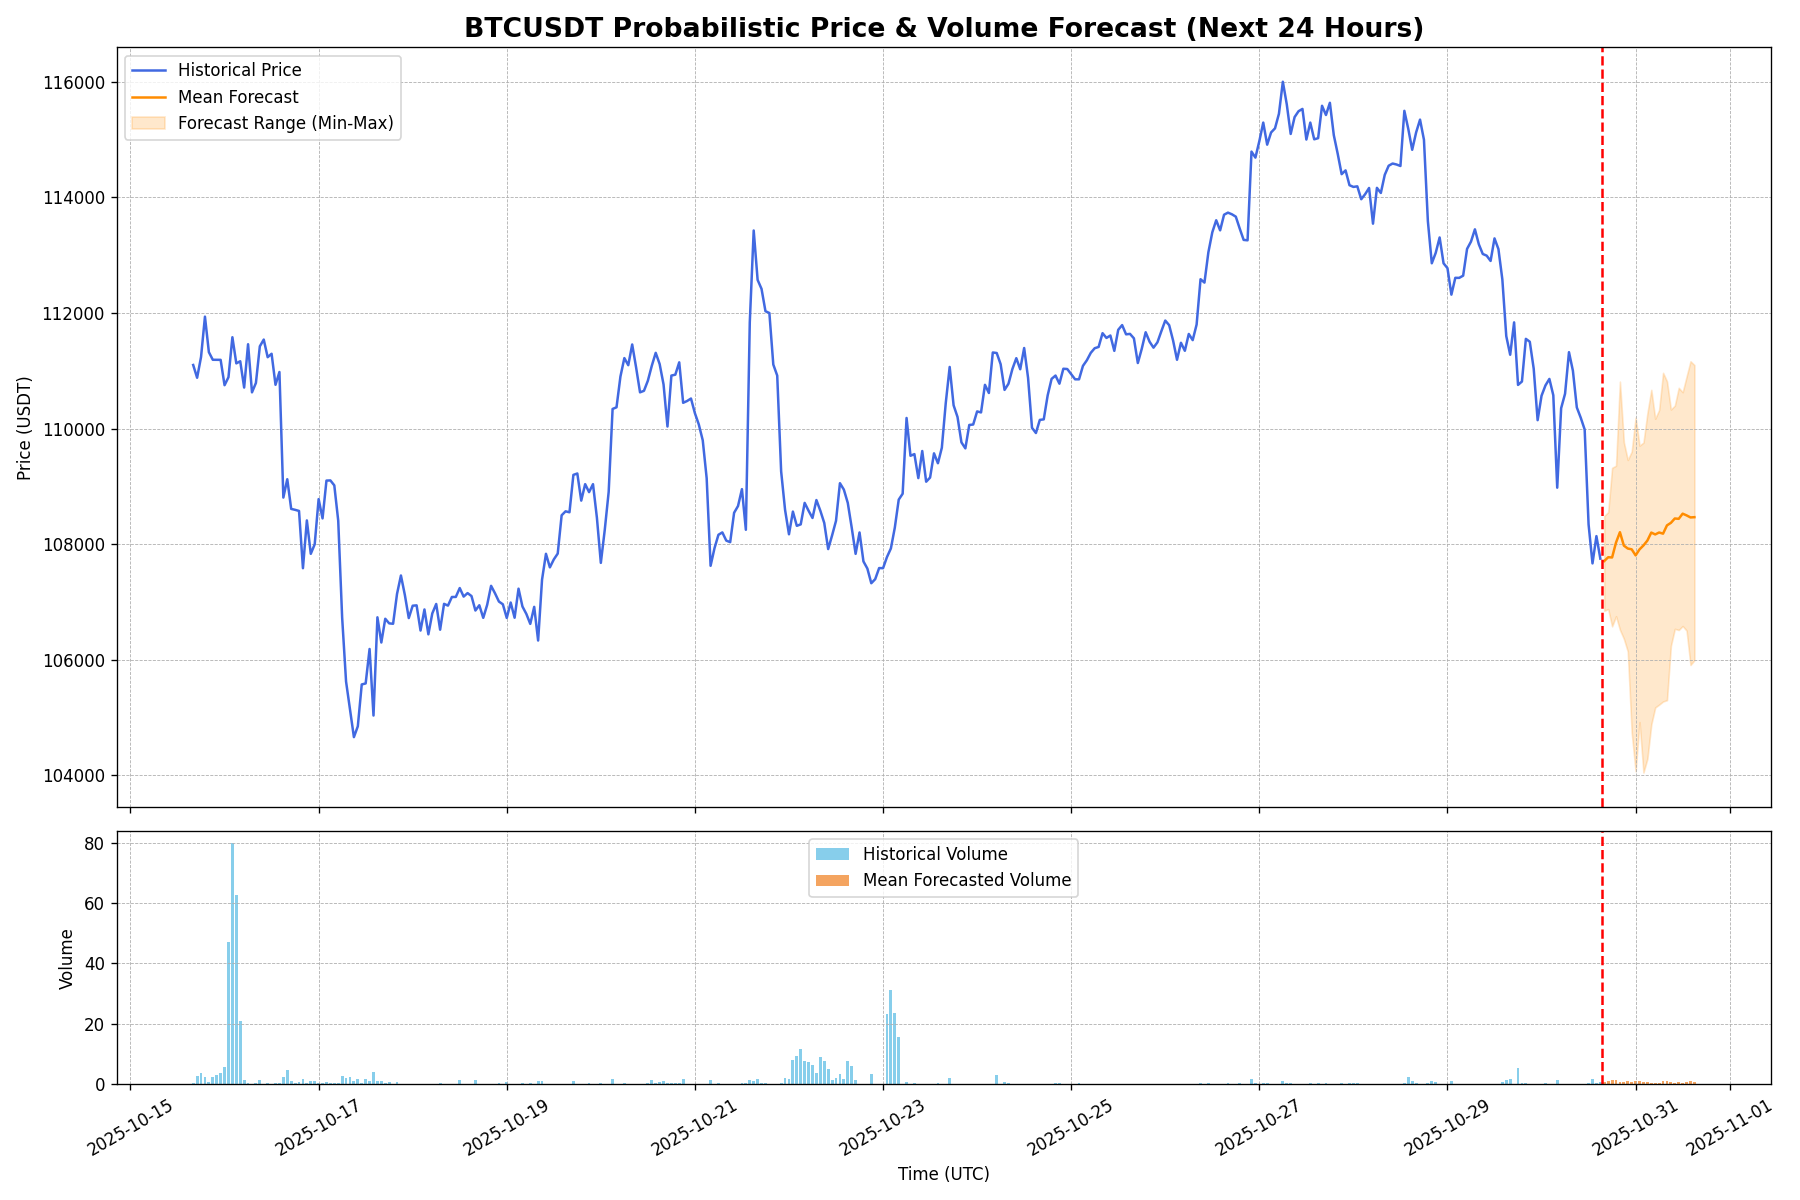
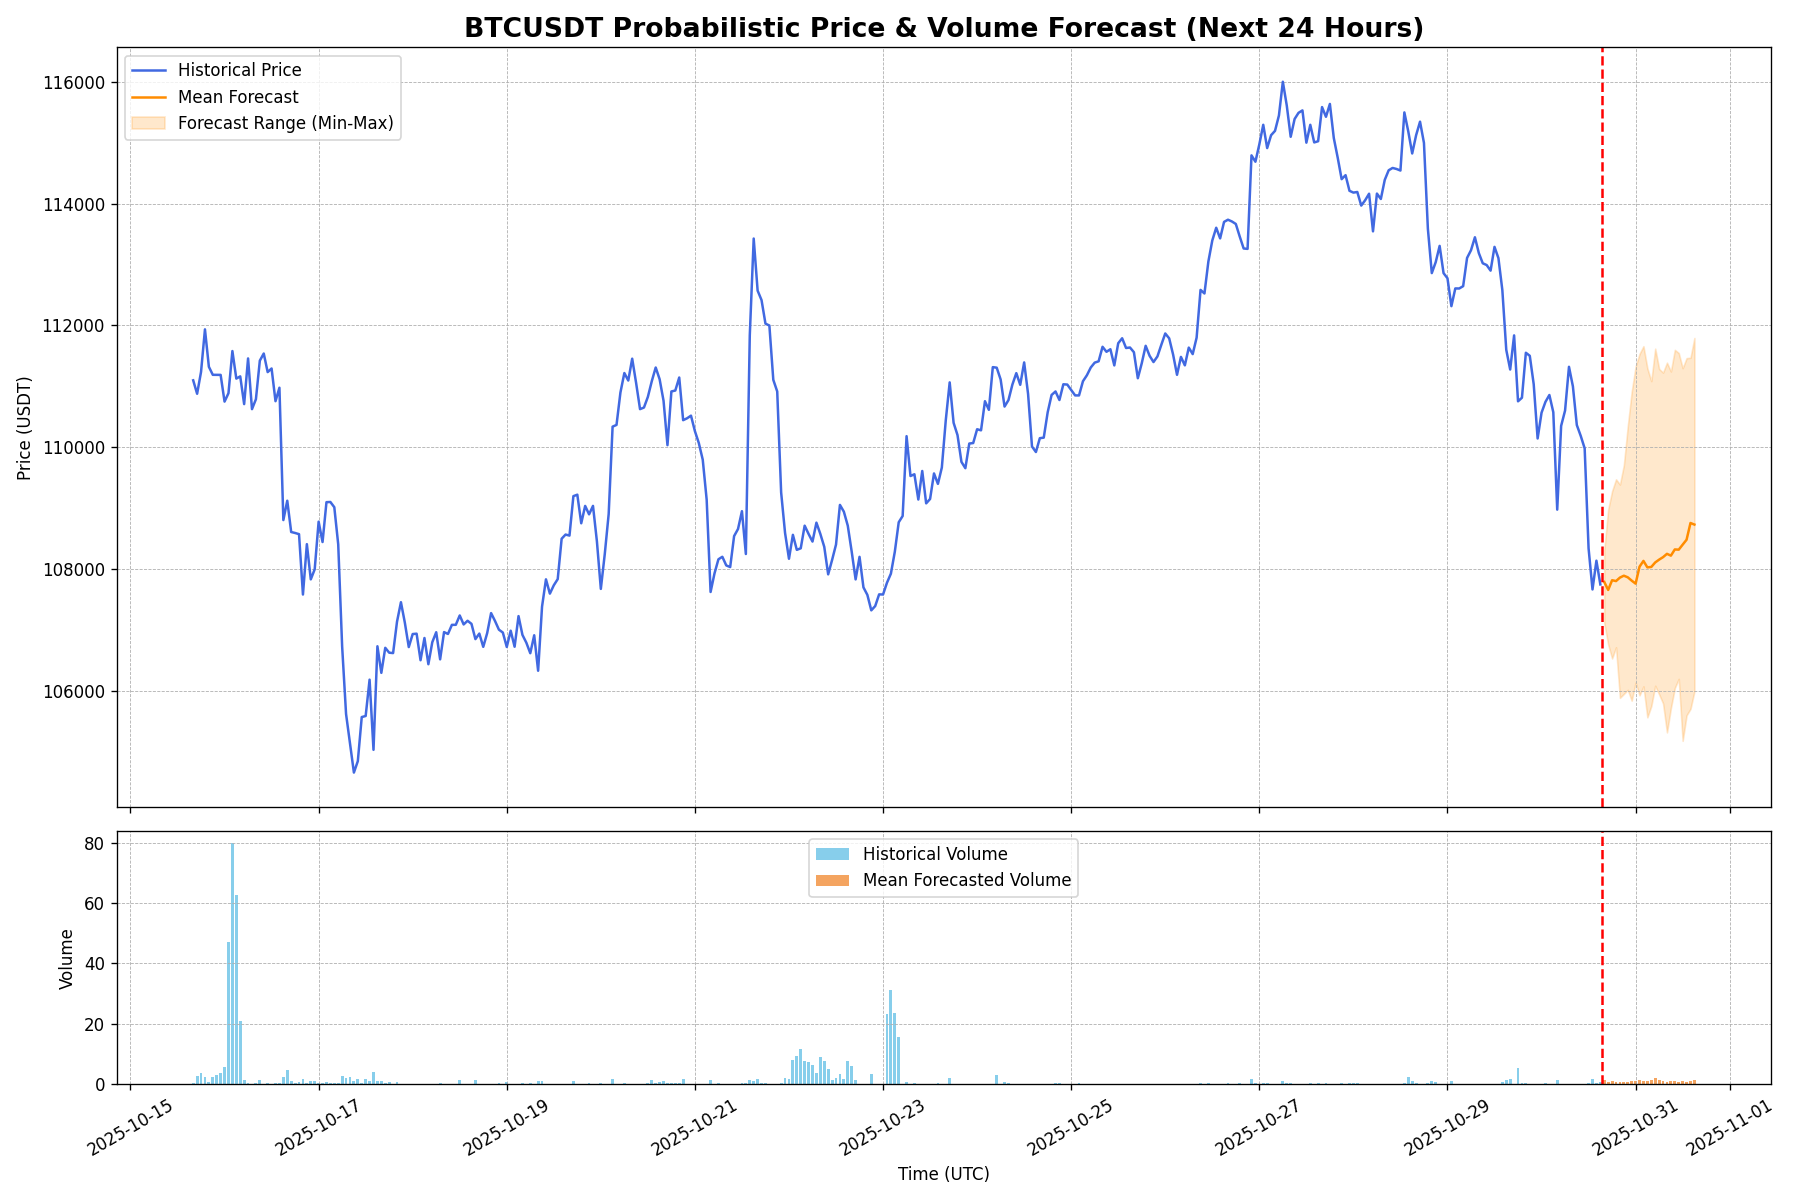
Auto-update forecast for 2025-10-30 16:17 UTC

diff --git a/index.html b/index.html
@@ -22,19 +22,19 @@
         <section id="live-dashboard">
             <h2>Live BTC/USDT Forecast Dashboard</h2>
             <div class="metadata">
-                <span>Last Updated (UTC): <strong id="update-time">2025-10-30 16:09:11</strong></span>
+                <span>Last Updated (UTC): <strong id="update-time">2025-10-30 16:17:25</strong></span>
                 <span>Data Source: Binance | Interval: 1-Hour</span>
             </div>
 
             <div class="metrics-container">
                 <div class="metric-card">
                     <h3>Upside Probability (Next 24h)</h3>
-                    <p class="metric-value" id="upside-prob">70.0%</p>
+                    <p class="metric-value" id="upside-prob">76.7%</p>
                     <div class="metric-desc">The model's confidence that the price in 24 hours will be higher than the last known price.</div>
                 </div>
                 <div class="metric-card">
                     <h3>Volatility Amplification (Next 24h)</h3>
-                    <p class="metric-value" id="vol-amp-prob">3.3%</p>
+                    <p class="metric-value" id="vol-amp-prob">0.0%</p>
                     <div class="metric-desc">The probability that predicted volatility over the next 24h will exceed recent historical volatility.</div>
                 </div>
             </div>
